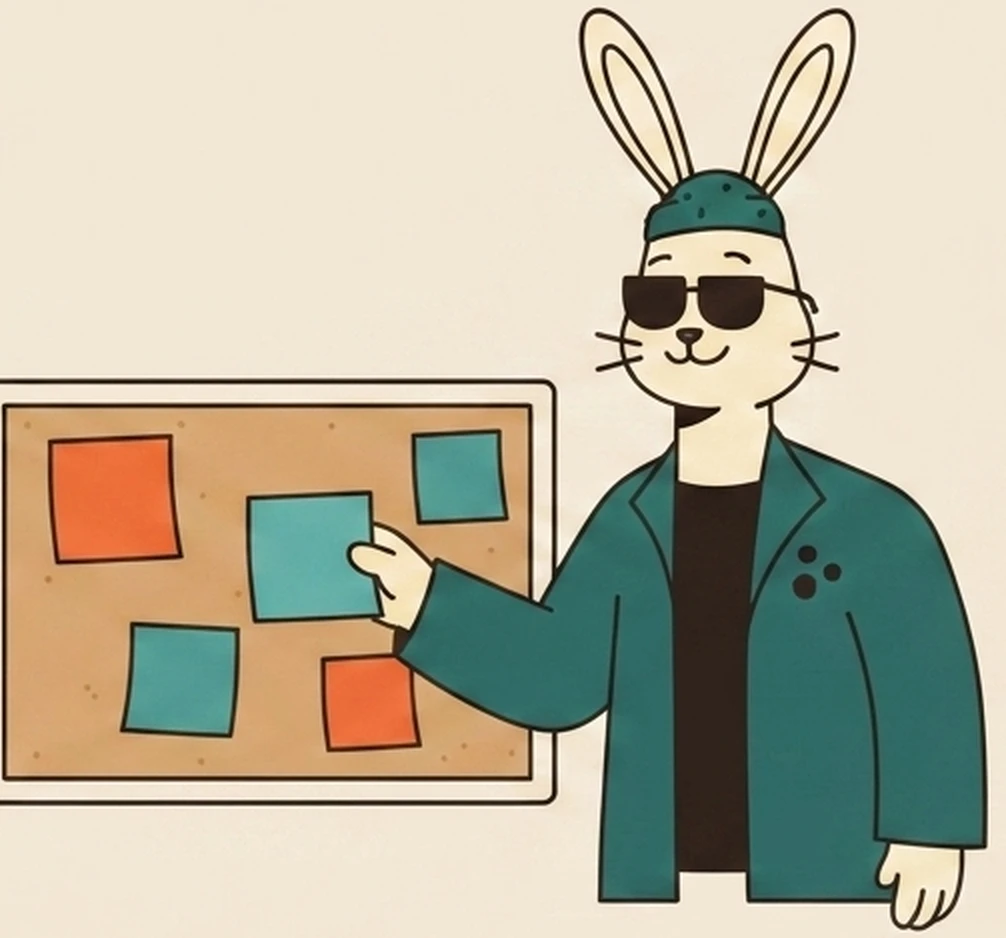
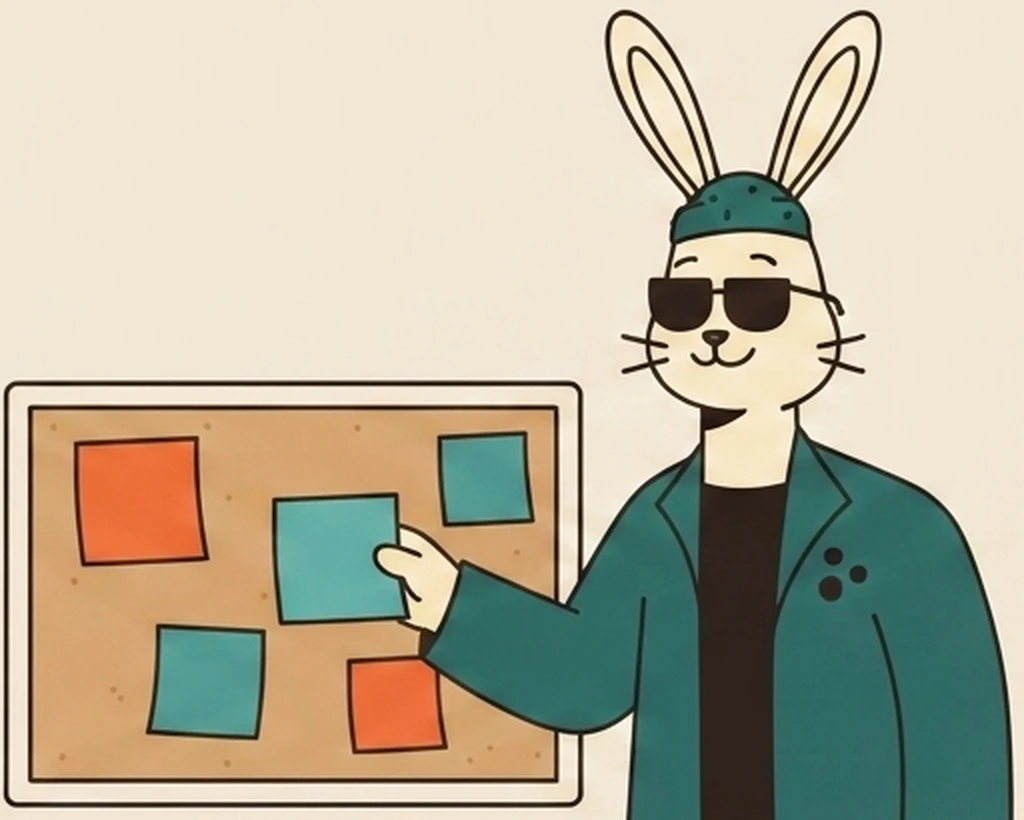
Cursor checkpoint: 2026-09-20 19:20
Files touched (4):
- USINESS_STATE.md
- public/brand/features/memory.jpg
- public/brand/features/memory.webp
- src/components/TestingMethod.tsx

Auto-committed by .cursor/hooks/git-checkpoint.mjs (stop hook) — not a curated commit message.

diff --git a/src/components/TestingMethod.tsx b/src/components/TestingMethod.tsx
@@ -32,9 +32,8 @@ const STEPS = [
     body: "Revisit questions you got wrong, retest difficult topics, and strengthen your recall over time — so you’re practising retrieval, not just recognising information on a page.",
     src: "/brand/features/memory.webp",
     alt: "Illustrated memory scene — repeating retrieval until the learning sticks.",
-    // Asset cropped flush to corkboard left + rabbit (ref: syllabus slide 5 art framing).
-    objectPosition: "center center",
-    imageClassName: "scale-[1.15] origin-[45%_55%]",
+    // Asset cropped flush to rabbit + board at 5:4; top bias keeps ears on mobile 4:3 plate.
+    objectPosition: "center 35%",
     tone: "cream" as const,
   },
 ] as const;
@@ -76,9 +75,6 @@ export function TestingMethod() {
                     src={step.src}
                     alt={step.alt}
                     objectPosition={step.objectPosition}
-                    imageClassName={
-                      "imageClassName" in step ? step.imageClassName : undefined
-                    }
                     tone={step.tone}
                     priority={i === 0}
                   />

diff --git a/BUSINESS_STATE.md b/BUSINESS_STATE.md
@@ -20,6 +20,7 @@ Phase 1 platform shell — in progress. Next.js app scaffolded at repo root with
 - **How the backlog gets built:** Claude plans/specs/grooms Linear/verifies; **Cursor** (a separate AI coding agent Sim runs locally) executes the actual code changes, picking up work from `cursor-prompt-*.md` files Claude writes in `cursor-prompts/` (they lived at the project root until 2026-09-15). Full definition in `CLAUDE.md` under "Collaborators & tools" — check there first if a session ever seems unsure what "Cursor" refers to.
 
 - **2026-09-20** — Lab recall demo mode switcher → LIC-adapted 21st segmented control (teal sliding thumb, `framer-motion`; no separate `motion` package) in `segmented-control.tsx`, wired in `LabActivityDemo`.
+- **2026-09-20** — Testing method step 03: recropped `memory.jpg`/`memory.webp` flush to rabbit + corkboard at 5:4 (matched framing from syllabus “Remember what matters” art, not that file) with `objectPosition: center 35%` (`TestingMethod`, `public/brand/features/memory.*`).
 - **2026-09-20** — Testing method step 03: cropped `memory.jpg`/`memory.webp` tight to rabbit + corkboard (removed ~⅔ empty left field) and set `objectPosition: center 42%` (`TestingMethod`, `public/brand/features/memory.*`). `LabArtPlate` also gained optional `imageClassName`.
 - **2026-09-20** — Lab recall demo stage: dropped shared tall `min-h`; each tab sizes to its activity content (no empty bottom on Lineup/Group up) (`LabActivityDemo`).
 - **2026-09-20** — Lab recall demo: card spans full `wrap` width from `md` up (was capped at 46rem and looked stranded on desktop) (`LabActivityDemo`).
